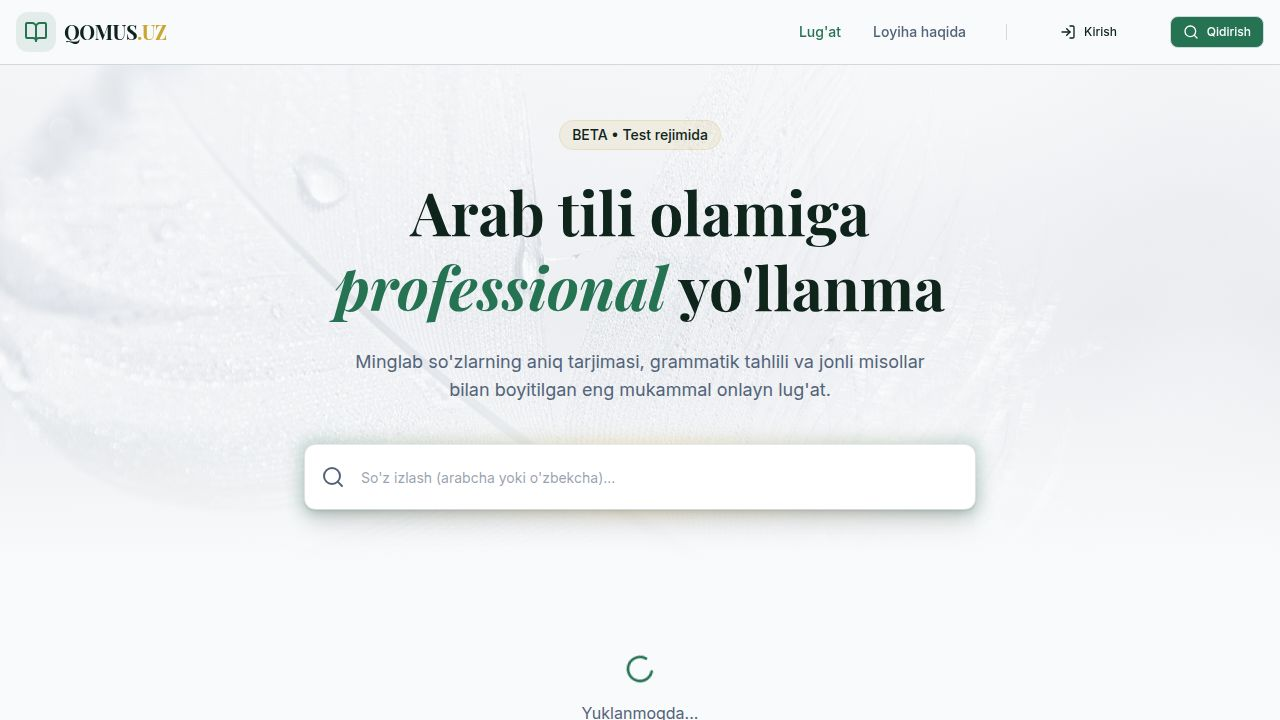
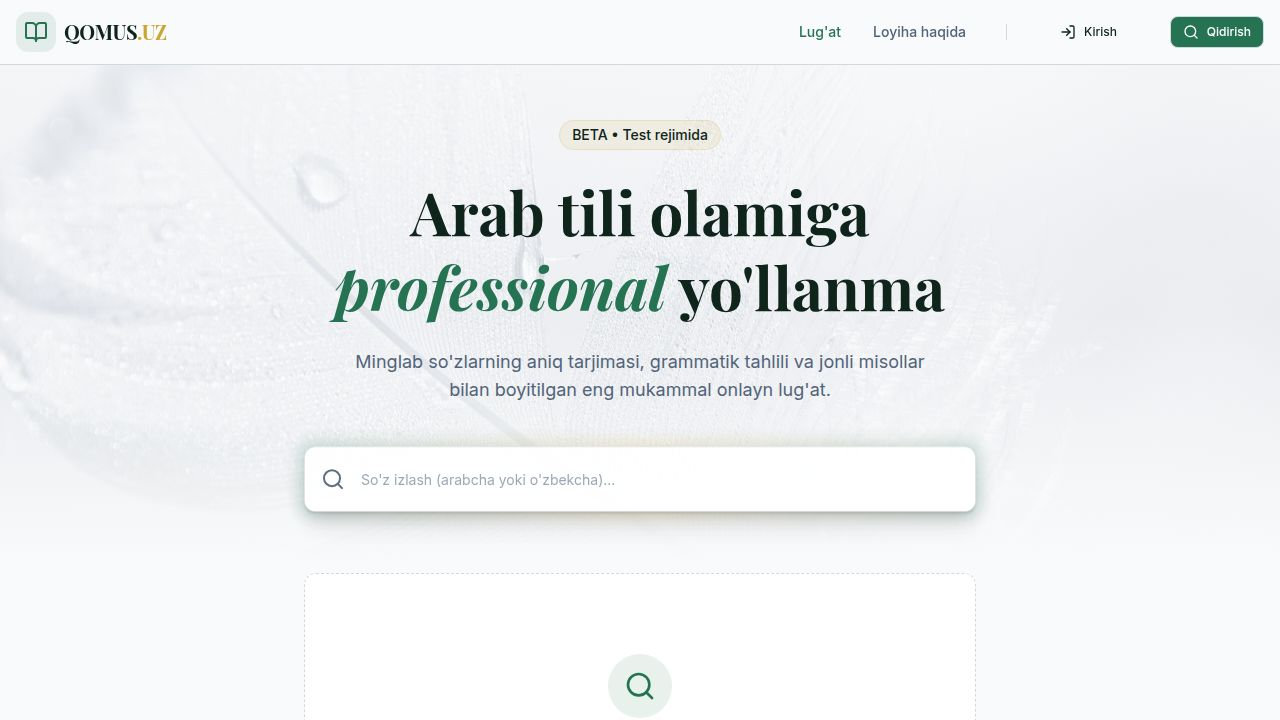
Improve dictionary page loading performance by adding search filtering
Update DictionaryPage.tsx to only fetch dictionary entries when a search term is present, preventing initial load of all entries and displaying a prompt to search.

Replit-Commit-Author: Agent
Replit-Commit-Session-Id: 6bb24c68-ade6-4d53-be54-5b4cd9fc84cd
Replit-Commit-Checkpoint-Type: full_checkpoint
Replit-Commit-Event-Id: b260db05-c65b-4b02-b859-a79ce941c13c
Replit-Commit-Screenshot-Url: https://storage.googleapis.com/screenshot-production-us-central1/740fe0c2-0da0-42c4-8504-c8e7afdcc9bc/6bb24c68-ade6-4d53-be54-5b4cd9fc84cd/5epyMBc
Replit-Helium-Checkpoint-Created: true

diff --git a/client/src/pages/DictionaryPage.tsx b/client/src/pages/DictionaryPage.tsx
@@ -4,7 +4,7 @@ import { Layout } from "@/components/Layout";
 import { Hero } from "@/components/Hero";
 import { ResultCard } from "@/components/ResultCard";
 import { getDictionaryEntries } from "@/lib/api";
-import { SearchX, Loader2 } from "lucide-react";
+import { SearchX, Loader2, Search } from "lucide-react";
 
 export default function DictionaryPage() {
   const [searchTerm, setSearchTerm] = useState("");
@@ -21,6 +21,7 @@ export default function DictionaryPage() {
   const { data: entries = [], isLoading } = useQuery({
     queryKey: ['dictionary', debouncedSearch],
     queryFn: () => getDictionaryEntries(debouncedSearch || undefined),
+    enabled: debouncedSearch.length > 0,
   });
 
   return (
@@ -34,7 +35,16 @@ export default function DictionaryPage() {
           </div>
         )}
         
-        {isLoading ? (
+        {!debouncedSearch ? (
+          <div className="text-center py-20 bg-card rounded-xl border border-dashed max-w-2xl mx-auto">
+            <div className="bg-primary/10 w-16 h-16 rounded-full flex items-center justify-center mx-auto mb-4">
+              <Search className="h-8 w-8 text-primary" />
+            </div>
+            <h3 className="text-lg font-medium text-foreground">So'z izlang</h3>
+            <p className="text-muted-foreground">Arabcha yoki o'zbekcha so'z yozing</p>
+            <p className="text-sm text-muted-foreground/70 mt-2">32,292 ta so'z bazasidan qidiring</p>
+          </div>
+        ) : isLoading ? (
           <div className="text-center py-20">
             <Loader2 className="h-8 w-8 animate-spin mx-auto text-primary" />
             <p className="text-muted-foreground mt-4">Yuklanmoqda...</p>
